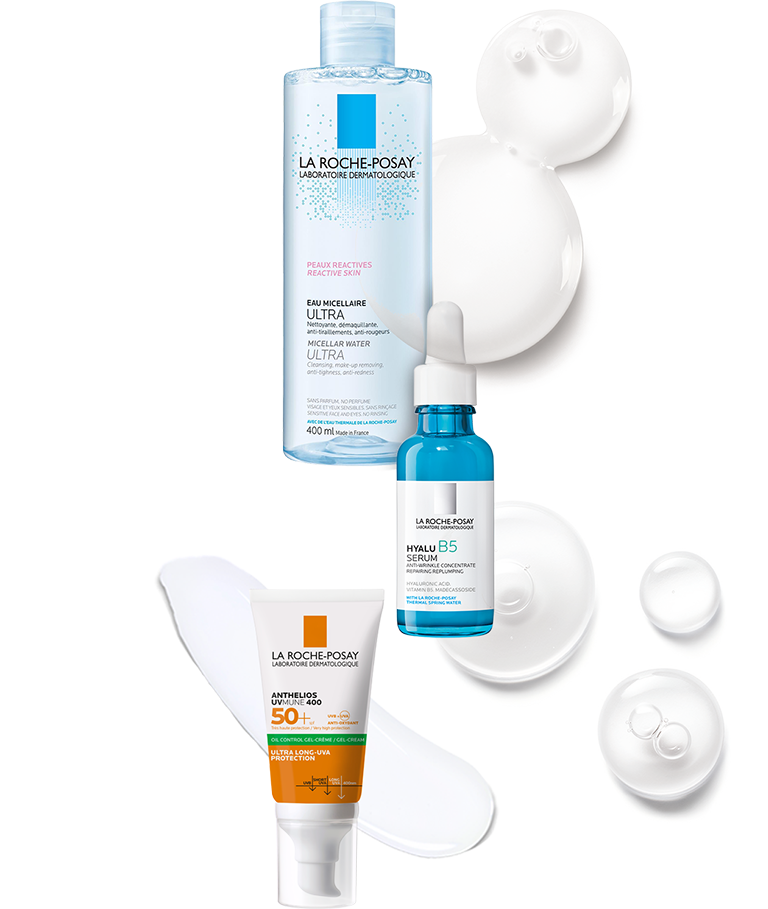
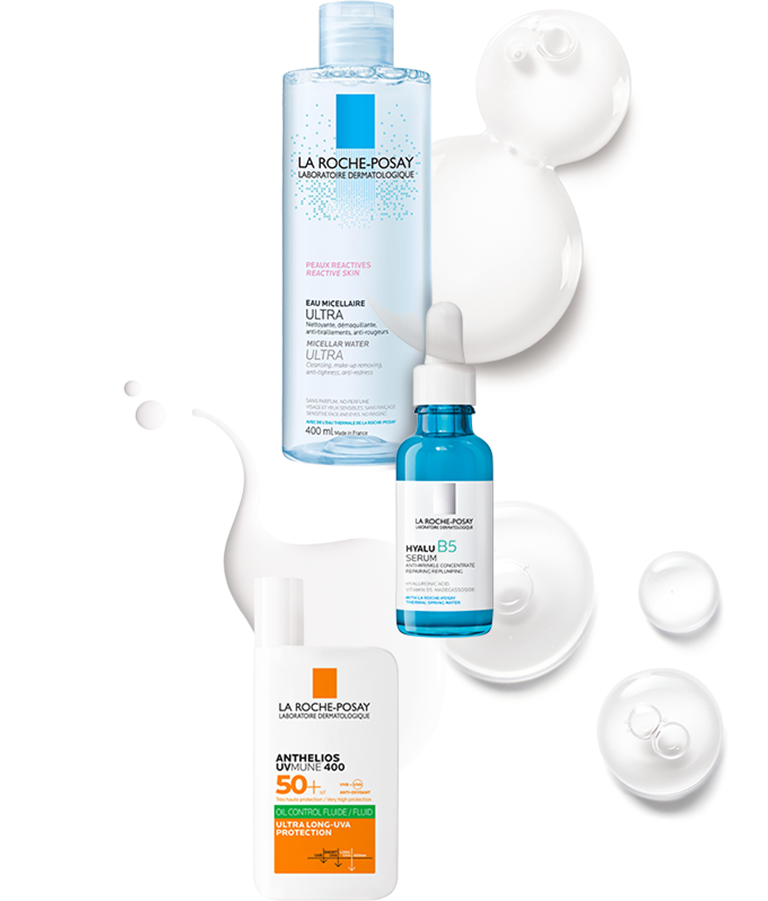
Finish

diff --git a/src/index.html b/src/index.html
@@ -197,8 +197,8 @@
           <div class="es-cross__single  es-cross__single--3">
             <p class="es-cross__number">3</p>
             <img src="./images/cross-3.png" alt="" class="es-cross__image">
-            <p class="es-cross__title"><span>Anthelios uv</span>mune <span>400</span><br>Oil-Control Żel-Krem SPF 50+</p>
-            <p class="es-cross__desc">Niewidoczny żel-krem do twarzy. Dla skóry wrażliwej, tłustej i&nbsp;mieszanej. Bardzo wysoka ochrona przed promieniami UVA&nbsp;i&nbsp;UVB.</p>
+            <p class="es-cross__title"><span>Anthelios uv</span>mune <span>400</span><br>Oil-Control<br>fluid SPF 50+</p>
+            <p class="es-cross__desc">Niewidoczny fluid spf50+ do&nbsp;twarzy. Dla skóry wrażliwej, tłustej i&nbsp;mieszanej. Bardzo wysoka ochrona przed promieniami UVA&nbsp;i&nbsp;UVB.</p>
             <a href="#" class="es-cross__link">Dowiedz się więcej</a>
           </div>
         </div>

diff --git a/src/sass/style.scss b/src/sass/style.scss
@@ -580,7 +580,7 @@ body {
       }
       &--3 {
         left: 20px;
-        top: 580px;
+        top: 560px;
       }
     }
   }
